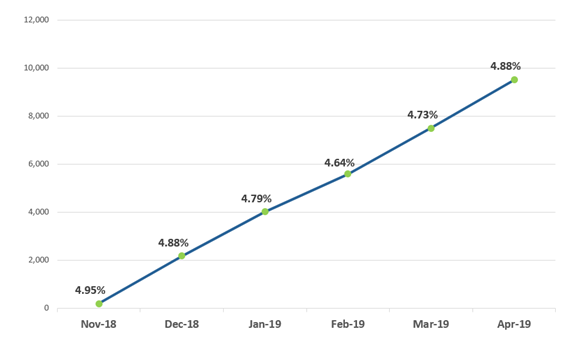
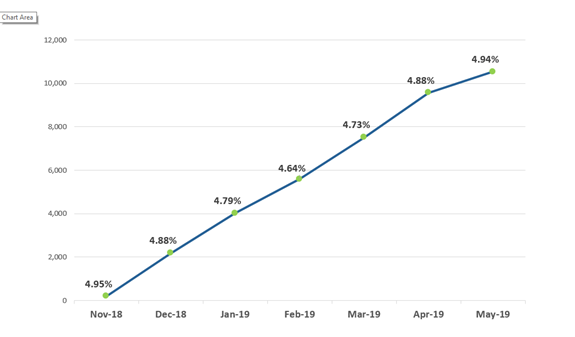
Commit of Content/Products.htm,Content/Resources/Images/Frailty graph.png,Project/Targets/HTML5 - Top Navigation.fltar

diff --git a/Content/Products.htm b/Content/Products.htm
@@ -27,7 +27,7 @@
                 <ul>
                     <li class="bullets"><a href="NHS 111 Discovery frailty flagging.htm" id="NHS111project">NHS 111 project </a>
                         <br />Since the API went live in November 2018, the Discovery Data Service has: 
-						<li class="bullets2">handled 486,771 API requests.</li><li class="bullets2">matched 195,284 patients.</li><li class="bullets2">flagged 9,525 potentially frail patients.</li><li class="bullets2"><a href="Popups/Frailty graph.htm" class="MCTopicPopup MCTopicPopupHotSpot MCXref xref" MadCap:width="750px" MadCap:height="750px">Monthly totals</a></li><li class="bullets2">Latest update: 1 May 2019.</li></li>
+						<li class="bullets2">handled 489,265 API requests.</li><li class="bullets2">matched 213,140patients.</li><li class="bullets2">flagged 10,535potentially frail patients.</li><li class="bullets2"><a href="Popups/Frailty graph.htm" class="MCTopicPopup MCTopicPopupHotSpot MCXref xref" MadCap:width="750px" MadCap:height="750px">Monthly totals</a></li><li class="bullets2">Latest update: 13 May 2019.</li></li>
                 </ul>
             </div>
             <div class="column">
